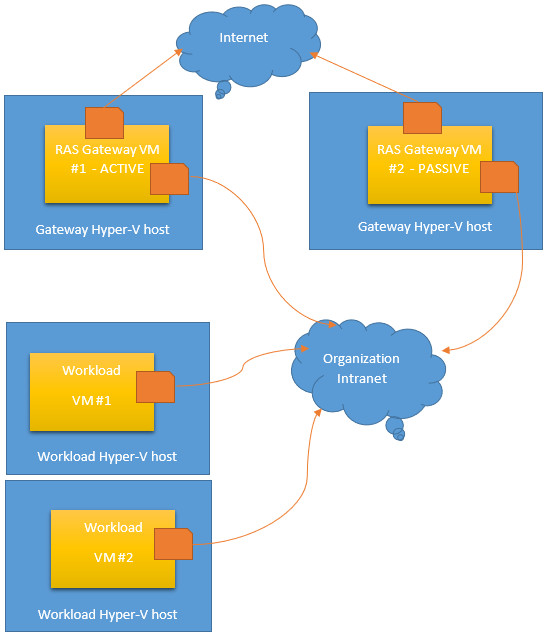
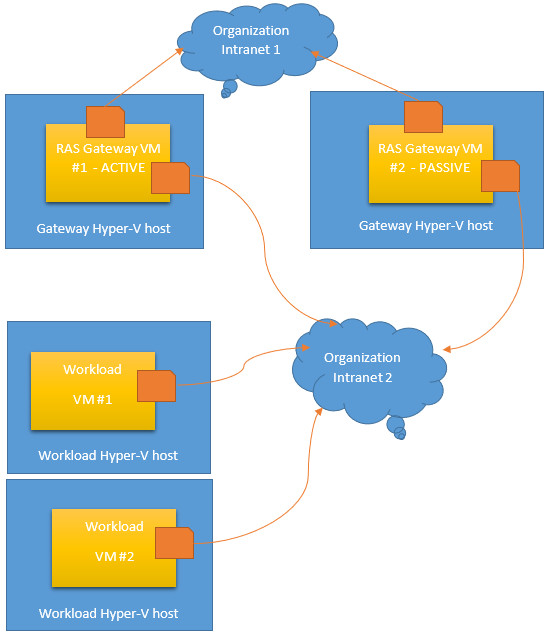
GRE topic changes per technical review feedback

diff --git a/WindowsServerDocs/remote/remote-access/ras-gateway/RAS-Gateway-GRE-Perf.md b/WindowsServerDocs/remote/remote-access/ras-gateway/RAS-Gateway-GRE-Perf.md
@@ -1,6 +1,6 @@
 ---
 title: RAS Gateway GRE Tunnel Throughput and Performance
-description: This topic, which is intended for Information Technology (IT) professionals, provides throughput performance information about RAS Gateway Generic Routing Encaptulation (GRE) tunnels.
+description: This topic, which is intended for Information Technology (IT) professionals, provides throughput performance information about RAS Gateway Generic Routing Encapsulation (GRE) tunnels.
 manager: brianlic
 ms.prod: windows-server-threshold
 ms.date: 
@@ -15,23 +15,25 @@ author: jamesmci
 
 >Applies to: Windows Server \(Semi-Annual Channel\)
 
-You can use this topic to learn about Remote Access Server \(RAS\) Gateway Generic Routing Encaptulation \(GRE\) Tunnel performance on Windows Server, version 1709, in a non-Software Defined Networking \(SDN\) based test environment.
+You can use this topic to learn about Remote Access Server \(RAS\) Gateway Generic Routing Encapsulation \(GRE\) Tunnel performance on Windows Server, version 1709, in a non-Software Defined Networking \(SDN\) based test environment.
 
-RAS Gateway is a software router and gateway that you can use in either single tenant mode or multitenant mode. This topic discusses a single tenant mode, high availability configuration with Failover Clustering.
+RAS Gateway is a software router and gateway that you can use in either single tenant mode or multitenant mode. This topic discusses a single tenant mode, high availability configuration with Failover Clustering. The GRE tunnel performance statistics that are presented in this topic are valid for RAS Gateway in both singele tennant and multitenant modes.
 
 >[!NOTE]
 >Failover Clustering is a Windows Server feature that enables you to group multiple servers together into a fault-tolerant cluster. For more information, see [Failover Clustering](https://docs.microsoft.com/windows-server/failover-clustering/failover-clustering-overview).
 
 Single tenant mode allows organizations of any size to deploy the gateway as an exterior, or Internet\-facing edge virtual private network \(VPN\) server. In single tenant mode, you can deploy RAS Gateway on a physical server or virtual machine \(VM\). This topic describes RAS Gateway deployment on two Virtual Machines \(VMs\) that are configured in a failover cluster.
 
+>[!IMPORTANT]
+>Because GRE tunnels provide encapsulation but not encryption, you should not use RAS Gateway configured with GRE as an Internet edge gateway.
+
 GRE is a lightweight tunneling protocol that can encapsulate a wide variety of network layer protocols inside virtual point\-to\-point links over an Internet Protocol internetwork. The Microsoft GRE implementation encapsulates both IPv4 and IPv6.
 
 For more information, see the section **RAS Gateway Deployment Scenarios** in the topic [RAS Gateway](https://docs.microsoft.com/windows-server/remote/remote-access/ras-gateway/ras-gateway#bkmk_deploy).
 
-In this test scenario, which is depicted in the following illustration, the traffic flow that is measured moves from the Organization Intranet out to the Internet. Tenant Workload VMs send network traffic from the Organization Intranet to the Internet by using RAS Gateway.
+In this test scenario, which is depicted in the following illustration, the traffic flow that is measured moves from the Organization Intranet 2 out to the Organization Intranet 1. Tenant Workload VMs send network traffic from Intranet 2 to Intranet 1 by using RAS Gateway.
 
 ![RAS Gateway GRE tunnel test scenario overview](../../media/GRE-Tunnel-Perf/Gre-Infrastructure.jpg)
-
 
 ## Test Environment Configuration
 
@@ -44,7 +46,7 @@ In the test environment, RAS Gateway VMs are deployed on Hyper\-V hosts in a fai
 Two Hyper\-V hosts are configured to support the test scenario in the following manner. 
 
 - Two dual\-homed physical computers are configured with Windows Server, version 1709
-- The two physical network adapters in each of the two servers are connected to different subnetworks - one network that represents an organization Intranet, and another network that represents the Internet. Both networks and supporting hardware have a capacity of 10 GBps.
+- The two physical network adapters in each of the two servers are connected to different subnetworks - both of which represent subnets of an Organization Intranet. Both networks and supporting hardware have a capacity of 10 GBps.
 - Hyperthreading on the physical servers is disabled. This provides the maximum throughput from the physical NICs.
 - The Hyper\-V server role is installed on both servers and configured with two External Hyper\-V Virtual Switches, one for each physical network adapter.
 - Because both servers are connected to the same intranet, the servers can communicate with each other.
@@ -58,7 +60,7 @@ Two Hyper\-V hosts are configured to support the test scenario in the following 
 Two VMs are configured to support the test scenario in the following manner.
 
 - On each server a VM is installed that is running Windows Server, version 1709. Each VM is configured with 10 Cores and 8 GB RAM.
-- Each VM is also configured with two virtual network adapters. One virtual network adapter is connected to the intranet virtual switch, and the other virtual network adapter is connected to the Internet virtual switch.
+- Each VM is also configured with two virtual network adapters. One virtual network adapter is connected to the Intranet 1 virtual switch, and the other virtual network adapter is connected to the Intranet 2 virtual switch.
 - Each VM has RAS Gateway installed and configured as a GRE\-based VPN server.
 - The gateway VMs are configured in a failover cluster. When clustered, one VM is active and the other VM is passive.
 
@@ -68,7 +70,7 @@ For this test, two Workload Hyper\-V hosts are installed on the intranet, and ea
 
 - Workload Hyper\-V hosts have one physical network adapter installed that is connected to the Organization Intranet.
 - In Hyper\-V Virtual Switch, one virtual switch is created on each host. The switch is External and is bound to the one network adapter connected to the intranet.
-- - The workload VMs are configured with 2 GB RAM and 2 Cores.
+- The workload VMs are configured with 2 GB RAM and 2 Cores.
 - The Workload VMs each have one virtual network adapter that is connected to the intranet virtual switch.
 
 ### Traffic Generator Tool
@@ -109,3 +111,4 @@ The following illustration depicts Ethernet network throughput on the RAS Gatewa
 
 ![Gateway VM Ethernet network throughput in Task Manager](../../media/GRE-Tunnel-Perf/Gre-Tunnel-04.jpg)
 
+For more information about RAS Gateway performance, see [HNV Gateway Performance Tuning in Software Defined Networks](https://docs.microsoft.com/windows-server/administration/performance-tuning/subsystem/software-defined-networking/hnv-gateway-performance).
